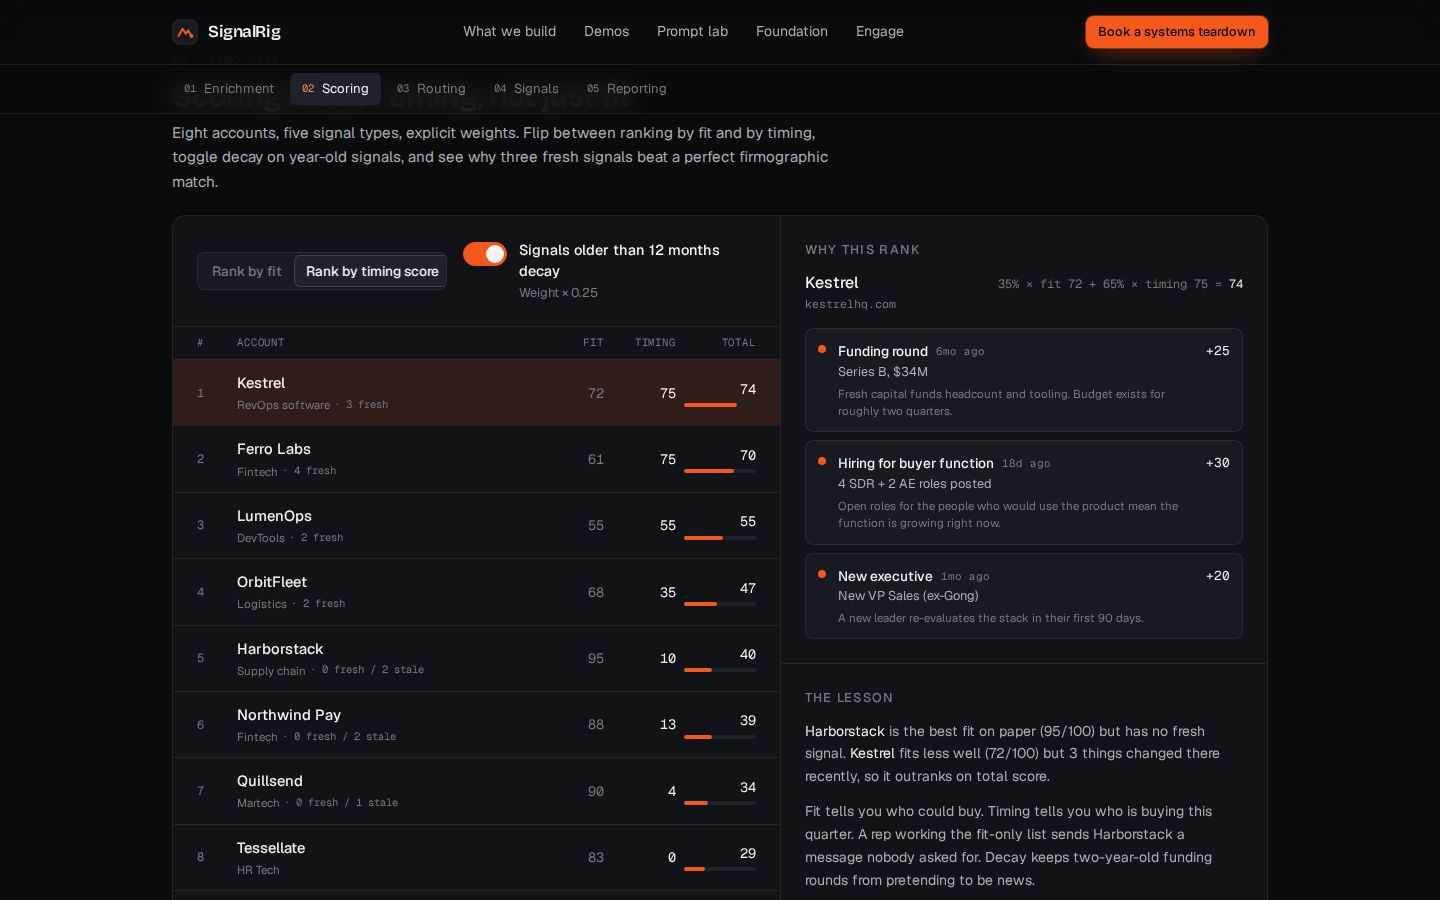
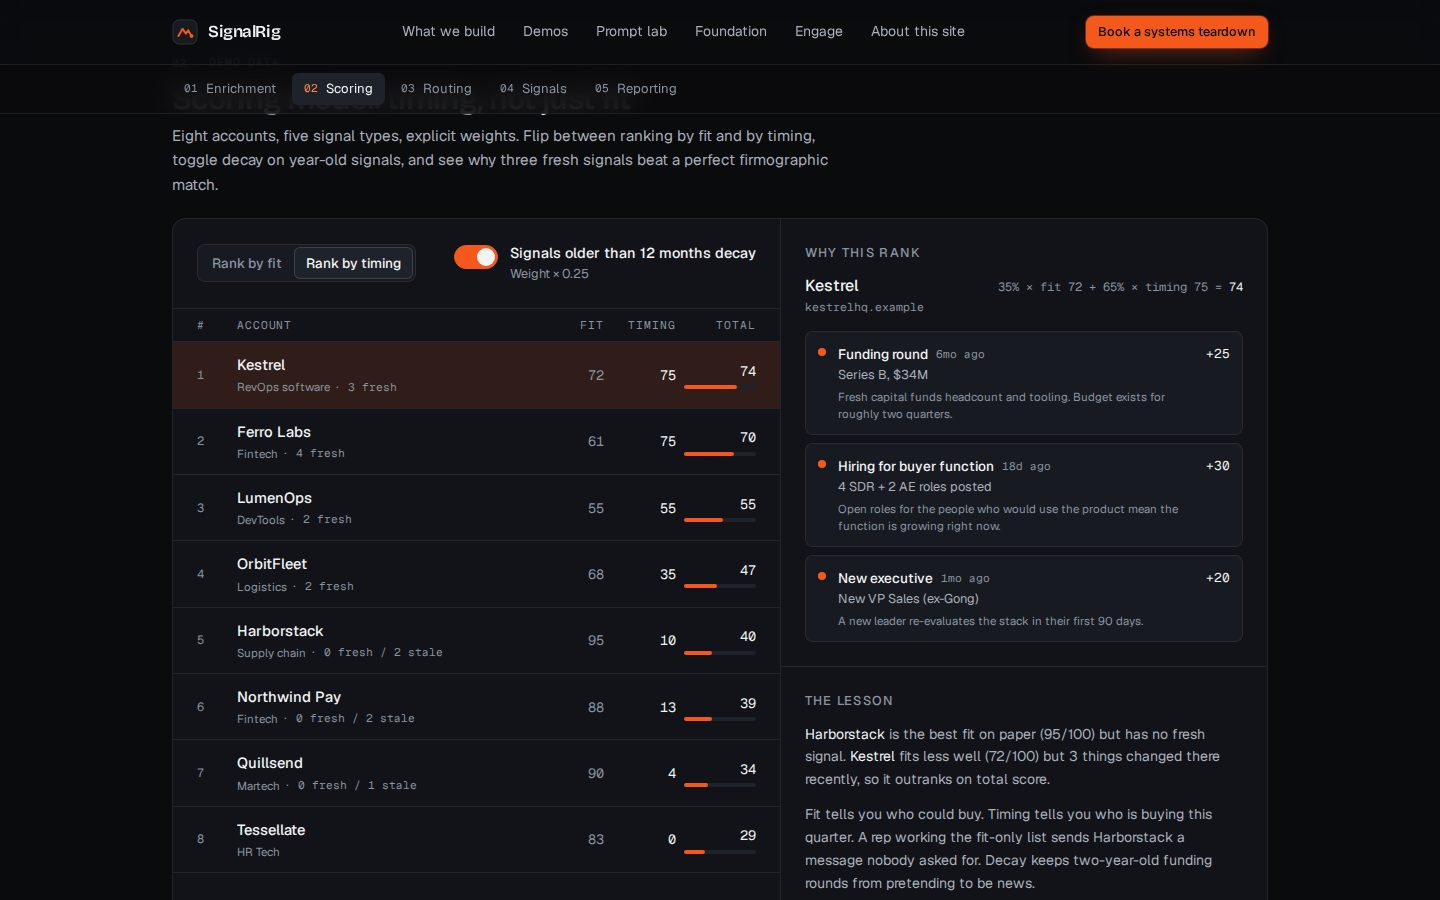
SignalRig: invented accounts use reserved .example domains
The demo data attached made-up funding rounds, hires and contacts to
domains that are really registered and accept mail (kestrelhq.com,
harborstack.com and nine more). They are now <name>.example throughout
the data and the enrichment demo; the /apps/ scoring screenshot was
re-captured from the rebuilt app in the same framing. next build and
tsc pass.

Claude-Session: https://claude.ai/code/session_01Uphc53QRtcMS4qZo9nXWUs

diff --git a/signalrig/components/demos/enrichment/EnrichmentDemo.tsx b/signalrig/components/demos/enrichment/EnrichmentDemo.tsx
@@ -38,7 +38,7 @@ function normaliseDomain(input: string): string {
 }
 
 export function EnrichmentDemo() {
-  const [input, setInput] = useState("kestrelhq.com");
+  const [input, setInput] = useState("kestrelhq.example");
   const [domain, setDomain] = useState<string | null>(null);
   const [running, setRunning] = useState(false);
   const [runKey, setRunKey] = useState(0);
@@ -86,7 +86,7 @@ export function EnrichmentDemo() {
               list="enrich-domains"
               value={input}
               onChange={(e) => setInput(e.target.value)}
-              placeholder="company domain, e.g. kestrelhq.com"
+              placeholder="company domain, e.g. kestrelhq.example"
               autoComplete="off"
               spellCheck={false}
               className="h-11 w-full rounded-[var(--radius-ctl)] border border-line-strong bg-surface-2 px-3 font-mono text-base text-ink placeholder:text-ink-3 focus:border-accent focus:outline-none"
